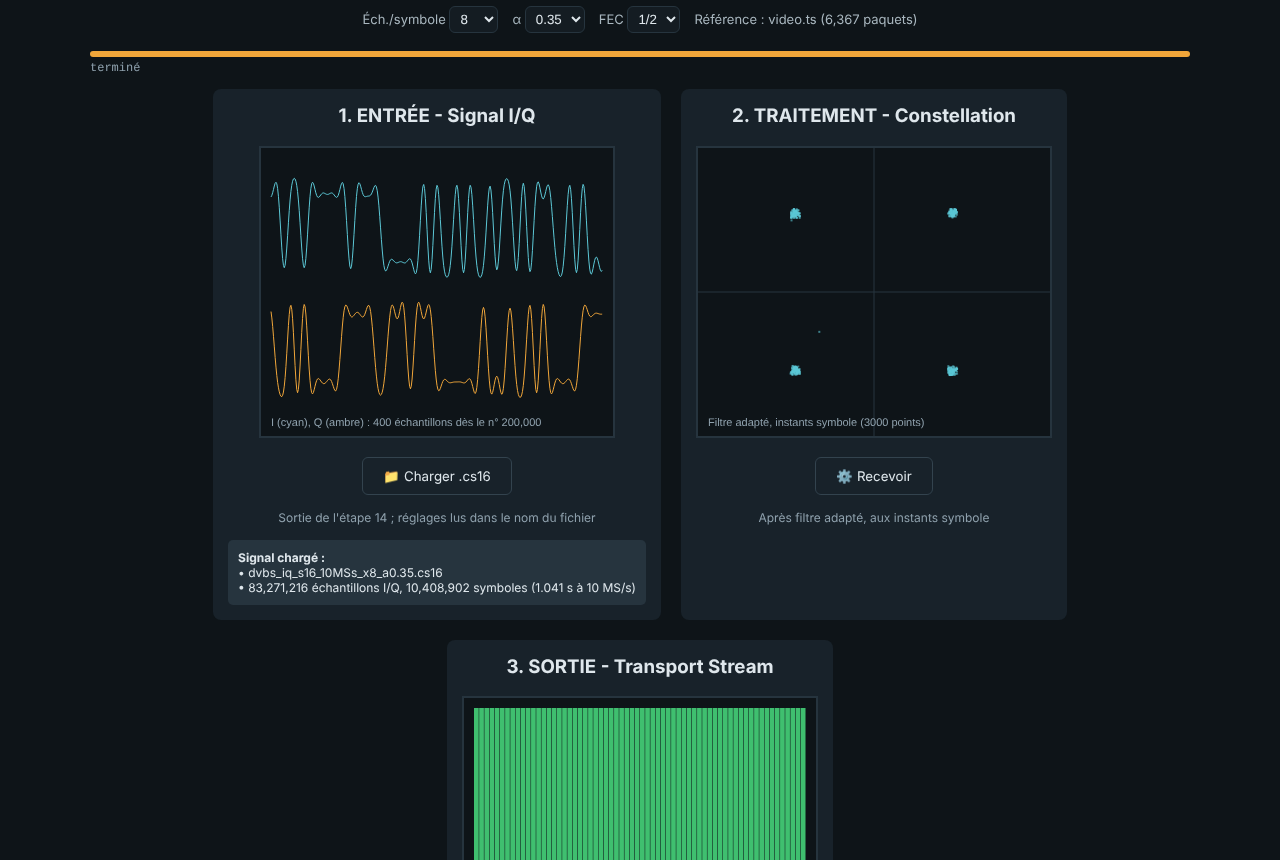
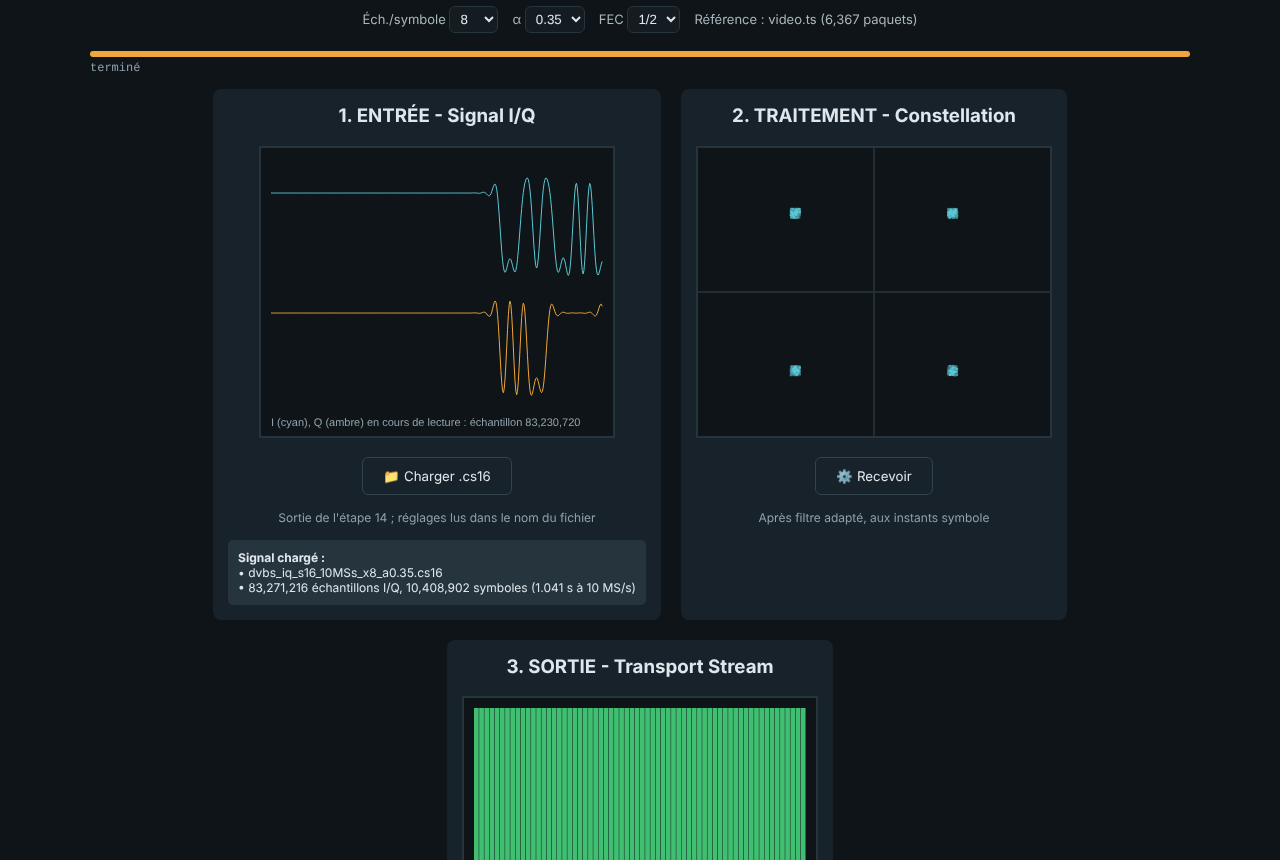
Étape 15 (1.1) : affichage au fil du traitement
- signal I/Q en cours de lecture, constellation vivante
- désentrelacement, RS et dérandomisation paquet par paquet dès la sortie du Viterbi ;
  chaque paquet TS est comparé et coloré à mesure

diff --git a/page15-reception.html b/page15-reception.html
@@ -6,11 +6,13 @@
   Objet      : Page 15 - Réception : du signal en bande de base au Transport Stream
   Auteur     : Eric PERRET
   Date       : 2026-10-19
-  Version    : 1.0
+  Version    : 1.1
   Plateforme : HTML / CSS / JavaScript, page autonome, aucune librairie
   Licence    : CC BY-NC 4.0
   Historique : 1.0  2026-10-19  création : filtre adapté, Viterbi, désentrelacement,
                      Reed-Solomon, dérandomisation ; comparaison au TS de l'étape 08
+               1.1  2026-10-19  affichage au fil du traitement : signal en cours de lecture,
+                     constellation vivante, paquets TS reçus et comparés un à un
 ================================================================================
 -->
 <html lang="fr">
@@ -502,8 +504,9 @@ var CANAL = {
 
         /* rxRecevoir — E : lire(a, b) → Int16Array I/Q des échantillons [a, b) (zéros hors
            fichier), nombre d'échantillons, paramètres {sps, alpha, span, fec},
-           progression(texte, fraction) → S : {ts, mesures, constellation} */
-        async function rxRecevoir(lire, nEch, P, progression) {
+           progression(texte, fraction), vue facultative {debut(nP), signal(iq, n0),
+           constellation(points), paquets(ts, p0, p1)} → S : {ts, mesures, constellation} */
+        async function rxRecevoir(lire, nEch, P, progression, V) {
             const sps = P.sps, h = rxSRRC(P.alpha, P.span, sps), H = (h.length - 1) / 2, nT = h.length;
             const nSym = Math.floor(nEch / sps), M = {};
             // 1. instant d'échantillonnage : phase d'énergie maximale sur 4 096 symboles
@@ -528,27 +531,50 @@ var CANAL = {
             for (let k = 0; k < nA; k++) { const y = filtrer(ap, -H, k, tau); A += Math.abs(y[0]) + Math.abs(y[1]); }
             A /= 2 * nA;
             M.tau = tau; M.sps = sps; M.symboles = nSym;
-            // 2. filtre adapté, décisions souples, dépoinçonnage, Viterbi
+            // 2. au fil des tranches : filtre adapté, décisions souples, dépoinçonnage,
+            //    Viterbi, puis désentrelacement, RS et dérandomisation des paquets complets
             const [PX, PY] = RX_POINC[P.fec], Lp = PX.length;
             let parPeriode = 0; for (let k = 0; k < Lp; k++) { parPeriode += PX[k] + PY[k]; }
             const nSouple = 2 * nSym, nPas = Math.floor(nSouple / parPeriode) * Lp;
-            const vit = new RxViterbi(nPas);
+            const vit = new RxViterbi(nPas), y = vit.out;
+            const nOct = Math.floor((nPas - 6) / 8), nX = Math.max(0, nOct - 11 * 17 * 12), nP = Math.floor(nX / 204);
             const durs = new Uint8Array(Math.ceil(nSouple / 8));    // décisions fermes (contrôle du BER canal)
             const constel = new Float32Array(2 * Math.min(nSym, 3000));
-            let errQ = 0, nQ = 0, iS = 0;                           // souples consommées
+            const mask = rxMasquePRBS(), ts = new Uint8Array(nP * 188), mot = new Uint8Array(204);
+            let errQ = 0, nQ = 0, iS = 0, pFait = 0, syncKO = 0, corriges = 0, motsCorriges = 0, nonCorr = 0;
             const file = new Float64Array(16); let nf = 0, kp = 0;  // valeurs souples en attente
-            const tranche = 32768;
+            if (V && V.debut) { V.debut(nP); }
+            /* paquets — traite les paquets dont tous les octets sont sortis du Viterbi */
+            function paquets(nDispo) {
+                const p0 = pFait;
+                while (pFait < nP && (pFait + 1) * 204 + 2244 <= nDispo) {
+                    const p = pFait;
+                    for (let j = 0; j < 204; j++) { const q = p * 204 + j; mot[j] = y[q + (q % 12) * 204]; }   // désentrelacement
+                    if (mot[0] !== (p % 8 === 0 ? 0xB8 : 0x47)) { syncKO++; }
+                    const r = rxRS(mot, 0);
+                    if (r < 0) { nonCorr++; } else if (r > 0) { corriges += r; motsCorriges++; }
+                    const d = p * 188, mo = (p % 8) * 188;
+                    ts[d] = 0x47;
+                    for (let j = 1; j < 188; j++) { ts[d + j] = mot[j] ^ mask[mo + j]; }       // dérandomisation
+                    pFait++;
+                }
+                if (V && V.paquets && pFait > p0) { V.paquets(ts, p0, pFait); }
+            }
+            const tranche = 16384;
             for (let a = 0; a < nSym; a += tranche) {
                 const b = Math.min(nSym, a + tranche);
                 const a0 = a * sps + tau - H;
                 const buf = await lire(a0, b * sps + tau + H + 1);
+                const vue = V && V.constellation ? new Float32Array(2 * Math.min(400, b - a)) : null;
                 for (let k = a; k < b; k++) {
-                    const y = filtrer(buf, a0, k, tau);
-                    const yi = y[0] / A, yq = y[1] / A;
+                    const yv = filtrer(buf, a0, k, tau);
+                    const yi = yv[0] / A, yq = yv[1] / A;
                     if (k < 3000) { constel[2 * k] = yi; constel[2 * k + 1] = yq; }
+                    if (vue && k - a < 400) { vue[2 * (k - a)] = yi; vue[2 * (k - a) + 1] = yq; }
                     const ei = yi - (yi >= 0 ? 1 : -1), eq = yq - (yq >= 0 ? 1 : -1);
                     errQ += ei * ei + eq * eq; nQ += 2;
-                    for (const v of [yi, yq]) {
+                    for (let u = 0; u < 2; u++) {
+                        const v = u ? yq : yi;
                         if (v < 0) { durs[iS >> 3] |= 0x80 >> (iS & 7); }
                         iS++;
                         file[nf++] = v;
@@ -564,46 +590,29 @@ var CANAL = {
                         }
                     }
                 }
-                progression('démodulation et Viterbi : symbole ' + b.toLocaleString() + ' / ' + nSym.toLocaleString(), 0.85 * b / nSym);
+                paquets(vit.sortis >> 3);
+                if (V && V.signal) { V.signal(buf.subarray(2 * H, 2 * H + 2 * 400 * 1), a * sps); }
+                if (vue) { V.constellation(vue); }
+                progression('symboles ' + b.toLocaleString() + ' / ' + nSym.toLocaleString() + '  |  octets Viterbi ' + (vit.sortis >> 3).toLocaleString() +
+                    '  |  paquets TS ' + pFait.toLocaleString() + ' / ' + nP.toLocaleString(), b / nSym);
                 await new Promise(function (r) { setTimeout(r, 0); });
             }
             vit.terminer();
+            paquets(nOct);
             M.mer = 10 * Math.log10(nQ / errQ);
             // 3. BER avant Viterbi : on recode les bits décodés et on compare aux décisions fermes
             let berErr = 0, berN = 0;
             {
                 let reg = 0, q = 0;
                 for (let i = 0; i < vit.pas && q < iS; i++) {
-                    const bit = (vit.out[i >> 3] >> (7 - (i & 7))) & 1, s = (bit << 6) | reg, k2 = i % Lp;
-                    if (PX[k2]) { berErr += RX_PAR[s & RX_G1] ^ ((durs[q >> 3] >> (7 - (q & 7))) & 1); q++; berN++; }
-                    if (PY[k2] && q < iS) { berErr += RX_PAR[s & RX_G2] ^ ((durs[q >> 3] >> (7 - (q & 7))) & 1); q++; berN++; }
+                    const bit = (y[i >> 3] >> (7 - (i & 7))) & 1, sv = (bit << 6) | reg, k2 = i % Lp;
+                    if (PX[k2]) { berErr += RX_PAR[sv & RX_G1] ^ ((durs[q >> 3] >> (7 - (q & 7))) & 1); q++; berN++; }
+                    if (PY[k2] && q < iS) { berErr += RX_PAR[sv & RX_G2] ^ ((durs[q >> 3] >> (7 - (q & 7))) & 1); q++; berN++; }
                     reg = ((reg >> 1) | (bit << 5)) & 0x3F;
                 }
             }
-            M.berCanal = berErr / berN; M.bitsCanal = berN;
-            // 4. octets décodés (sans les 6 bits de vidage), désentrelacement
-            const nOct = Math.floor((vit.pas - 6) / 8), y = vit.out;
-            const nX = Math.max(0, nOct - 11 * 17 * 12), x = new Uint8Array(nX);
-            for (let s = 0; s < nX; s++) { x[s] = y[s + (s % 12) * 204]; }
-            M.octetsViterbi = nOct;
-            // 5. synchros et Reed-Solomon
-            const nP = Math.floor(nX / 204);
-            let syncKO = 0, corriges = 0, motsCorriges = 0, nonCorr = 0;
-            for (let p = 0; p < nP; p++) {
-                const s0 = x[p * 204];
-                if (s0 !== (p % 8 === 0 ? 0xB8 : 0x47)) { syncKO++; }
-                const r = rxRS(x, p * 204);
-                if (r < 0) { nonCorr++; } else if (r > 0) { corriges += r; motsCorriges++; }
-                if (p % 2000 === 0) { progression('Reed-Solomon : paquet ' + p.toLocaleString() + ' / ' + nP.toLocaleString(), 0.85 + 0.12 * p / nP); await new Promise(function (r2) { setTimeout(r2, 0); }); }
-            }
+            M.berCanal = berErr / berN; M.bitsCanal = berN; M.octetsViterbi = nOct;
             M.paquets = nP; M.syncKO = syncKO; M.rsOctets = corriges; M.rsMots = motsCorriges; M.rsEchecs = nonCorr;
-            // 6. dérandomisation
-            const mask = rxMasquePRBS(), ts = new Uint8Array(nP * 188);
-            for (let p = 0; p < nP; p++) {
-                const o = p * 204, d = p * 188, mo = (p % 8) * 188;
-                ts[d] = 0x47;
-                for (let j = 1; j < 188; j++) { ts[d + j] = x[o + j] ^ mask[mo + j]; }
-            }
             progression('terminé', 1);
             return { ts: ts, mesures: M, constellation: constel };
         }
@@ -654,7 +663,7 @@ var CANAL = {
                 Math.floor(nEch / sps).toLocaleString() + ' symboles' + (rs ? ' (' + (nEch / sps / rs / 1e6).toFixed(3) + ' s à ' + rs + ' MS/s)' : '');
         }
 
-        function dessinerSignal(iq, d0) {
+        function dessinerSignal(iq, d0, libelle) {
             const ctx = document.getElementById('canvasInput').getContext('2d');
             clearCanvas('canvasInput');
             let c = 1; for (let i = 0; i < iq.length; i++) { c = Math.max(c, Math.abs(iq[i])); }
@@ -665,7 +674,7 @@ var CANAL = {
                 ctx.stroke();
             });
             ctx.fillStyle = '#8fa1ad'; ctx.font = '11px Arial'; ctx.textAlign = 'left';
-            ctx.fillText('I (cyan), Q (ambre) : ' + n + ' échantillons dès le n° ' + d0.toLocaleString(), 10, HEIGHT - 10);
+            ctx.fillText((libelle || 'I (cyan), Q (ambre) : ' + n + ' échantillons dès le n° ') + d0.toLocaleString(), 10, HEIGHT - 10);
         }
 
         function dessinerConstellation(pts) {
@@ -698,6 +707,52 @@ var CANAL = {
             ctx.fillText(n.toLocaleString() + ' paquets TS' + (ref ? ' — vert : identique, rouge : différent' : ''), 10, HEIGHT - 10);
         }
 
+        /* vue — affichages mis à jour à chaque tranche : signal en cours de lecture,
+           constellation (les points anciens s'estompent), paquets TS au fur et à mesure */
+        const vue = {
+            grille: null,
+            debut: function (nP) {
+                const cols = 64, rows = Math.ceil(nP / cols);
+                this.grille = { n: nP, cols: cols, ch: Math.max(1, Math.floor((HEIGHT - 40) / rows)), cw: (WIDTH - 20) / cols };
+                clearCanvas('canvasOutput'); clearCanvas('canvasProcess');
+                const ctx = document.getElementById('canvasOutput').getContext('2d');
+                ctx.fillStyle = '#1d2a33';
+                for (let p = 0; p < nP; p++) { this.case(ctx, p); }
+                this.legende(0);
+            },
+            case: function (ctx, p) {
+                const g = this.grille;
+                ctx.fillRect(10 + (p % g.cols) * g.cw, 10 + Math.floor(p / g.cols) * g.ch, Math.max(1, g.cw - 0.5), Math.max(1, g.ch - (g.ch > 2 ? 1 : 0)));
+            },
+            legende: function (n) {
+                const ctx = document.getElementById('canvasOutput').getContext('2d');
+                ctx.fillStyle = '#0e1418'; ctx.fillRect(0, HEIGHT - 24, WIDTH, 24);
+                ctx.fillStyle = '#8fa1ad'; ctx.font = '11px Arial'; ctx.textAlign = 'left';
+                ctx.fillText(n.toLocaleString() + ' / ' + this.grille.n.toLocaleString() + ' paquets TS' + (refTS ? ' — vert : identique, rouge : différent' : ''), 10, HEIGHT - 10);
+            },
+            signal: function (iq, n0) { dessinerSignal(iq, n0, 'I (cyan), Q (ambre) en cours de lecture : échantillon '); },
+            constellation: function (pts) {
+                const ctx = document.getElementById('canvasProcess').getContext('2d'), cx = WIDTH / 2, cy = HEIGHT / 2, k = 80;
+                ctx.fillStyle = 'rgba(14,20,24,0.25)'; ctx.fillRect(0, 0, WIDTH, HEIGHT);
+                ctx.strokeStyle = '#26343e'; ctx.beginPath(); ctx.moveTo(0, cy); ctx.lineTo(WIDTH, cy); ctx.moveTo(cx, 0); ctx.lineTo(cx, HEIGHT); ctx.stroke();
+                ctx.fillStyle = 'rgba(92,200,214,0.8)';
+                for (let i = 0; i < pts.length; i += 2) { ctx.fillRect(cx + k * pts[i] - 1, cy - k * pts[i + 1] - 1, 2, 2); }
+            },
+            paquets: function (ts, p0, p1) {
+                const ctx = document.getElementById('canvasOutput').getContext('2d');
+                for (let p = p0; p < p1; p++) {
+                    let c = '#5cc8d6';
+                    if (refTS) {
+                        c = '#3fbf6f';
+                        if (p * 188 + 188 > refTS.length) { c = '#c0392b'; }
+                        else { for (let j = 0; j < 188; j++) { if (ts[p * 188 + j] !== refTS[p * 188 + j]) { c = '#c0392b'; break; } } }
+                    }
+                    ctx.fillStyle = c; this.case(ctx, p);
+                }
+                this.legende(p1);
+            }
+        };
+
         /* recevoir — lecture du .cs16 par tranches, chaîne de réception, comparaison */
         async function recevoir() {
             if (!fichierIQ) { return; }
@@ -712,16 +767,15 @@ var CANAL = {
             document.getElementById('btnRecevoir').disabled = true;
             const t0 = performance.now();
             let r;
-            try { r = await rxRecevoir(lire, nEch, P, etat); }
+            try { r = await rxRecevoir(lire, nEch, P, etat, vue); }
             catch (e) { alert('Erreur de réception : ' + e.message); document.getElementById('btnRecevoir').disabled = false; return; }
             recu = r.ts; mesures = r.mesures; mesures.duree = (performance.now() - t0) / 1000;
-            dessinerConstellation(r.constellation);
-            afficherBilan();
+            afficherBilan(true);
             document.getElementById('btnRecevoir').disabled = false;
             document.getElementById('btnExportTS').disabled = false;
         }
 
-        function afficherBilan() {
+        function afficherBilan(direct) {
             if (!recu) { return; }
             const M = mesures, ok = function (c) { return c ? '<span style="color:#5cd65c">✔</span>' : '<span style="color:#ff5c5c">✘</span>'; };
             let cmp = '• Pas de TS de référence : chargez la sortie de l\'étape 08 (📁 Référence) pour la comparaison.';
@@ -737,7 +791,7 @@ var CANAL = {
                 cmp = ok(tout) + ' Comparaison avec <code>' + refNom + '</code> : ' + id.toLocaleString() + ' paquets identiques sur ' + nr.toLocaleString() +
                     (tout ? ' — <b>flux restitué octet pour octet</b>' : ' (premier écart au paquet ' + premier + ', reçus ' + n.toLocaleString() + ')');
             }
-            dessinerPaquets(recu, refTS);
+            if (!direct) { dessinerPaquets(recu, refTS); }
             const gs = document.getElementById('globalStats');
             gs.style.display = 'block';
             gs.innerHTML = '<strong>Réception :</strong><br>' +
